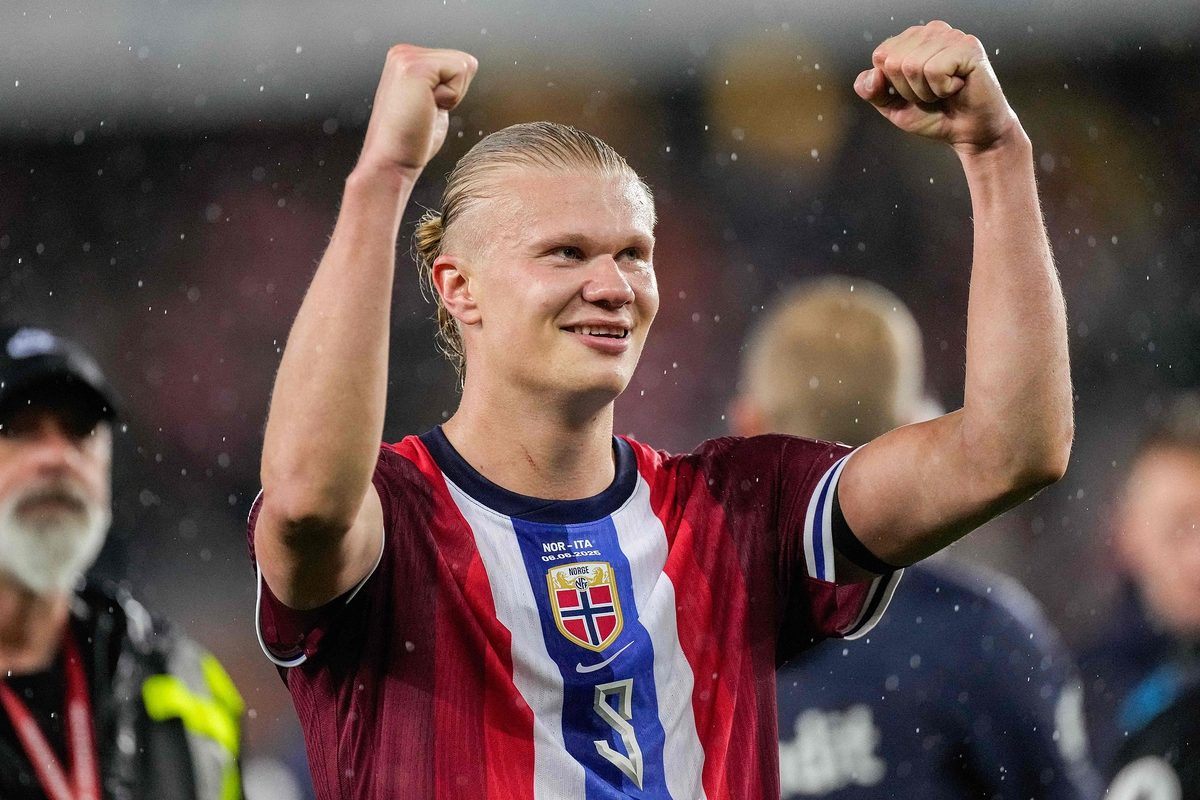
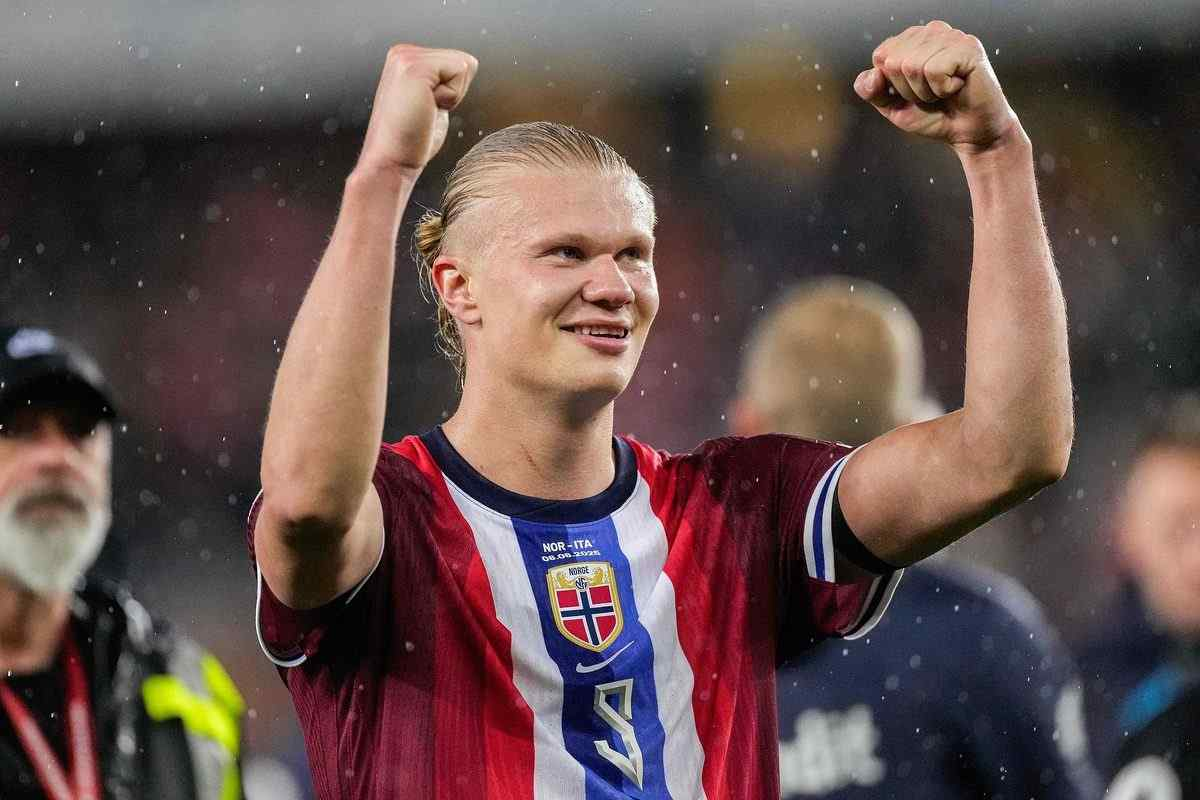
SEO fix pack 3: image compression and placeholder removal
Image compression (saved ~230 KB total):
  iptv-norge.jpg:        162 KB -> 58 KB
  iptv-norge.webp:       114 KB -> 33 KB
  iptv-norge-mobile.jpg:  60 KB -> 30 KB
  iptv-norge-mobile.webp: 33 KB -> 19 KB

Used PIL with quality 35-50 for JPEG and quality 35-45 for WebP.
All images visually identical at this quality level on web display.

Removed 22 KB inline base64 placeholder from index.html hero image.
Replaced with solid background color until real image loads.

Faster LCP (Largest Contentful Paint) Core Web Vital -> better mobile
SEO ranking.

diff --git a/index.html b/index.html
@@ -464,7 +464,7 @@ footer{border-top:1px solid var(--br);padding:3rem clamp(1rem,4vw,2.5rem) 1.8rem
            width="1200" height="800"
            fetchpriority="high"
            decoding="async"
[1 lines of base64/hex data omitted]
+           style="background:#06090f"
       />
     </picture>
   </div>
